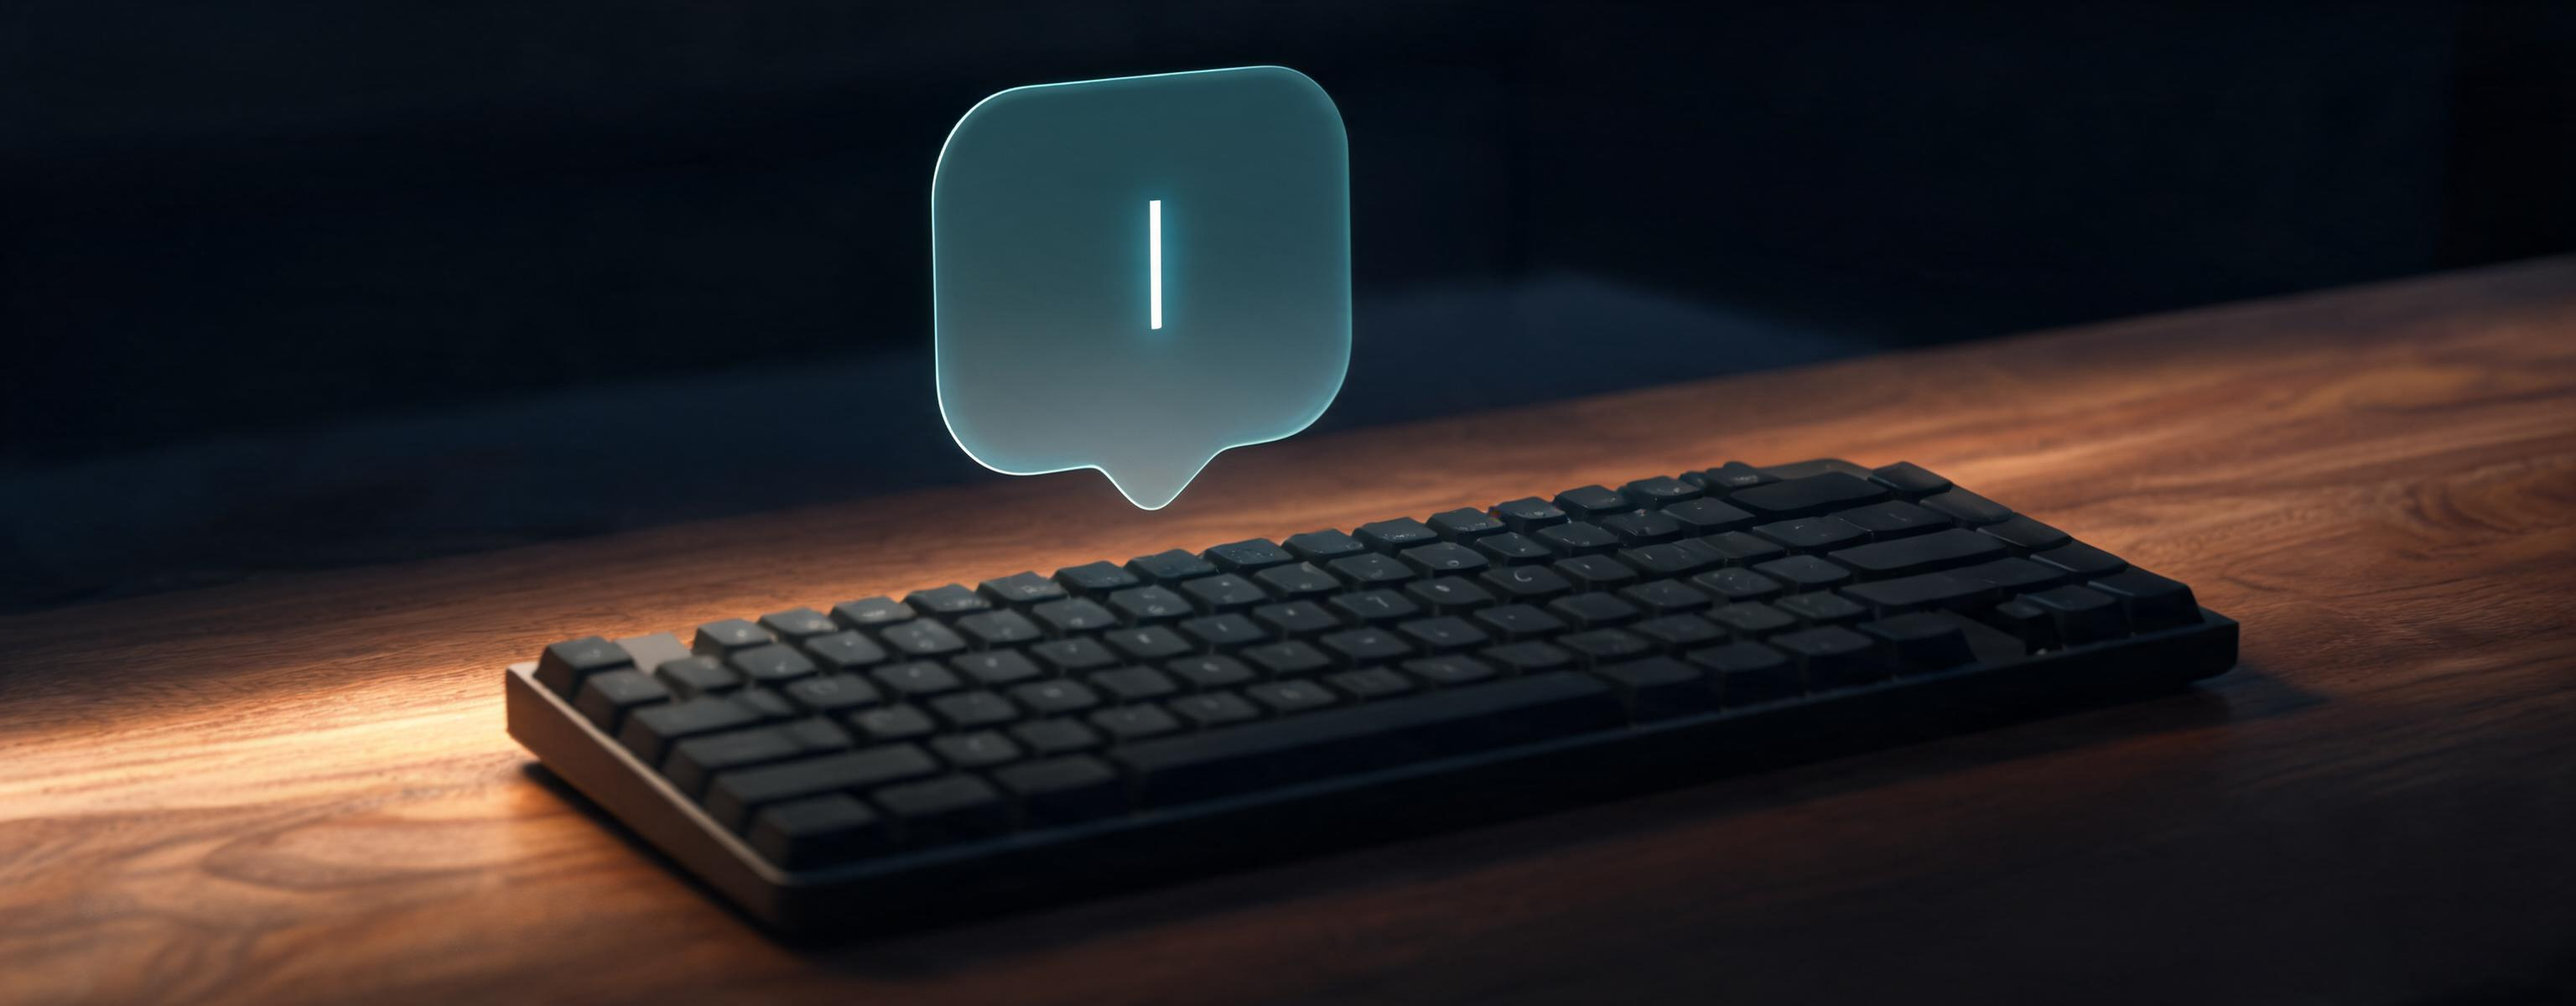
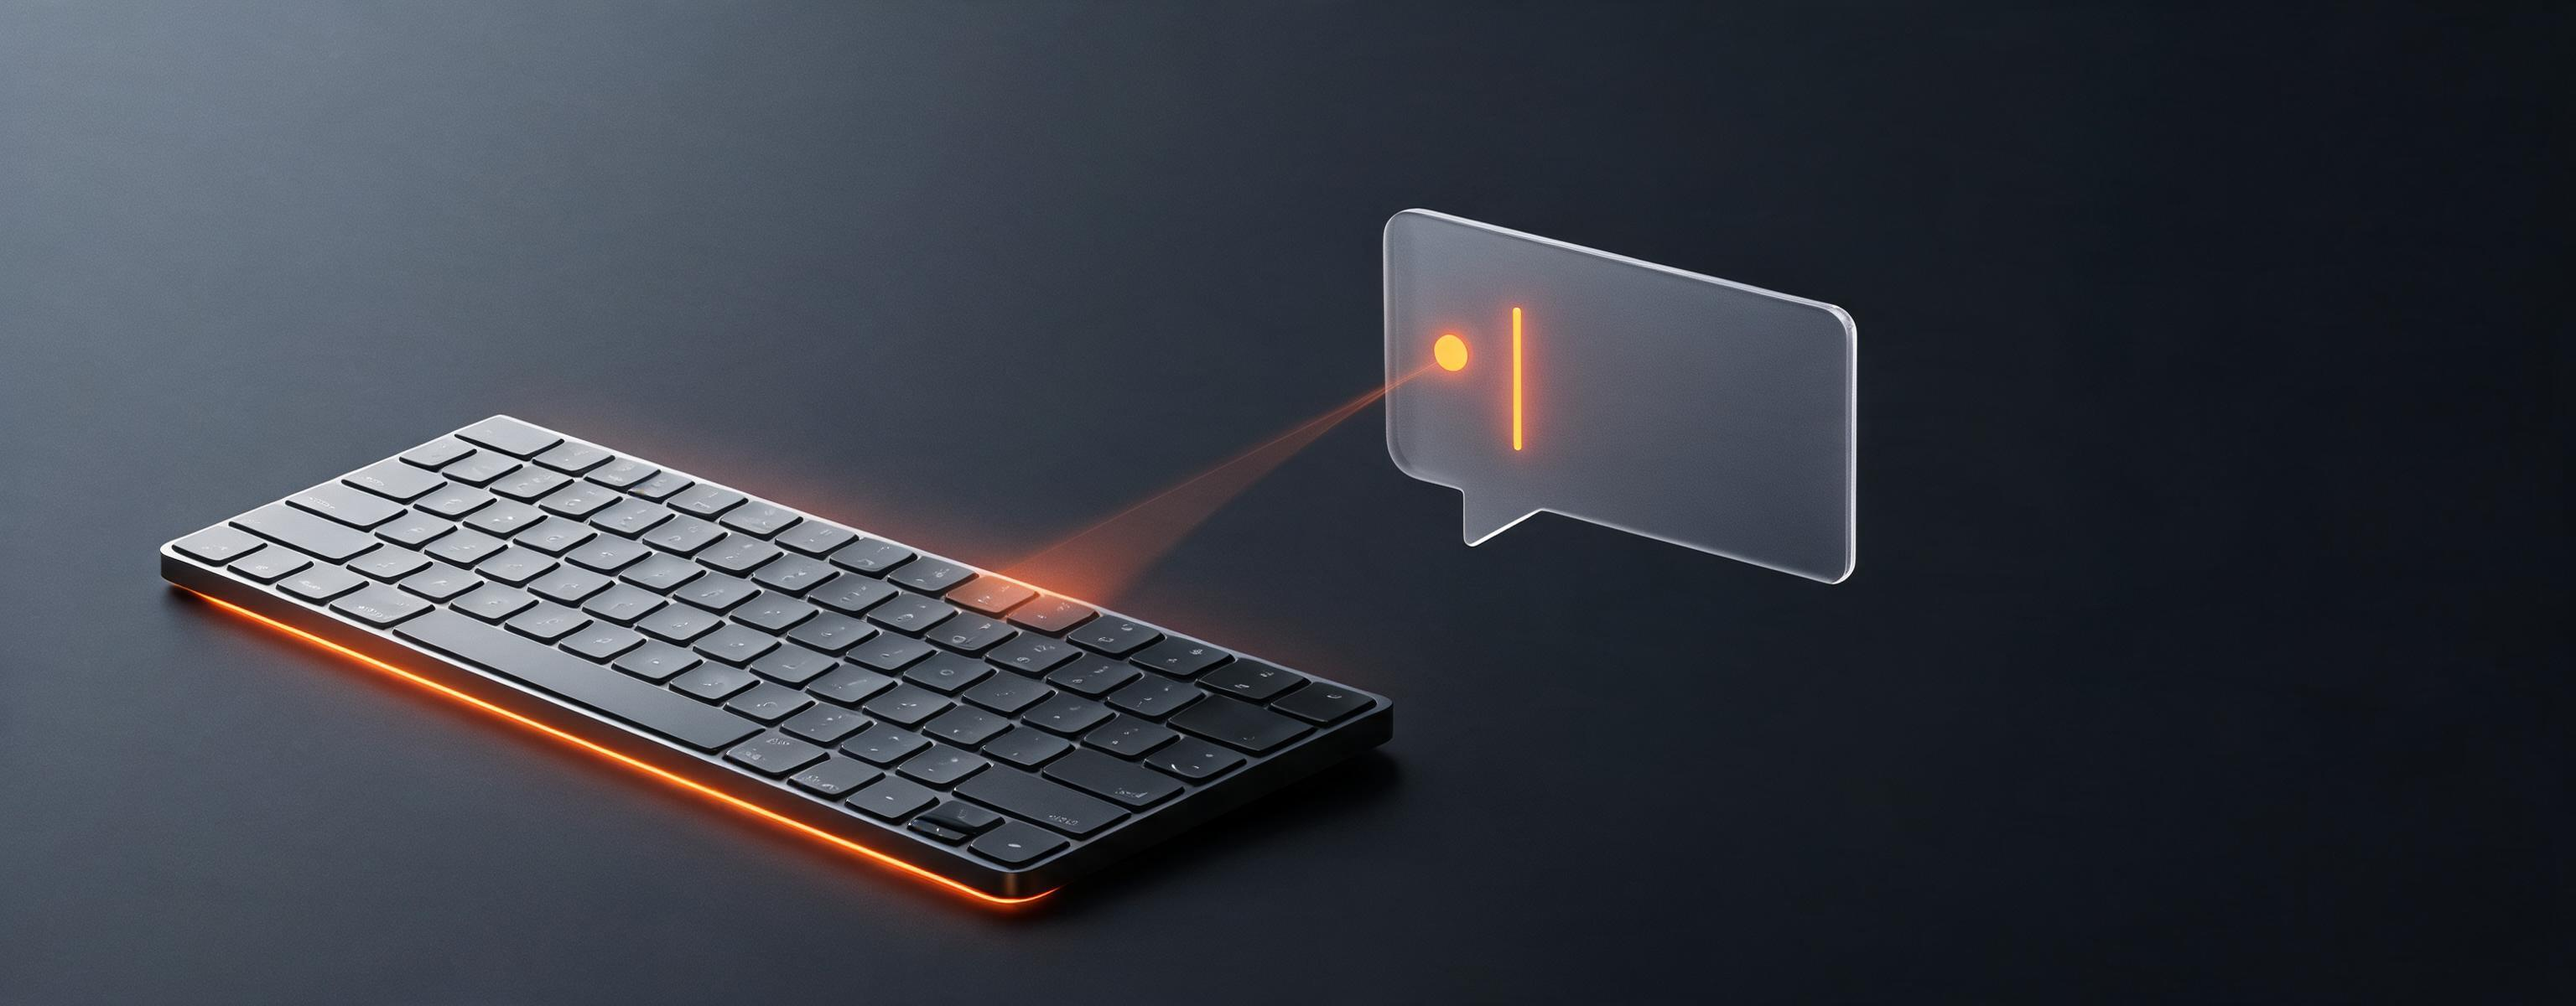
post: new hero image, constrained AI panel figure, human title

diff --git a/src/content/posts/keychron-ai-launcher-assistant.md b/src/content/posts/keychron-ai-launcher-assistant.md
@@ -1,14 +1,12 @@
 ---
-title: "Keychron AI (Beta): the Launcher Now Takes Requests"
+title: "Keychron AI: Ask the Launcher, and It Does It"
 date: 2026-07-19
 description: "Keychron's Launcher web app has a built-in AI assistant now. Type what you want in your own language and it connects your keyboard, remaps keys, builds macros and walks you through fixes. Tested against two years of real community questions."
 tags: [Keychron, Launcher, AI, mechanical keyboard, QMK, tutorial]
 category: Keychron Blog Draft
 ---
 
-*Draft preview — prepared for the Keychron blog. Format and sourcing follow the final publishing layout.*
-
-![A keyboard on a desk at night, with a glowing chat bubble above it](/keychron-ai/keychron-ai-hero.png)
+![A keyboard on a desk with a glowing chat bubble rising from the keys](/keychron-ai/keychron-ai-hero.png)
 
 For two years, the same questions kept showing up in keyboard communities. Why won't my keyboard connect to the Launcher? Why does my remapped key type the wrong symbol? What is a layer, and why did my firmware update just stop halfway?
 
@@ -20,7 +18,10 @@ Every quote below links to the original thread. You can check that we didn't inv
 
 ## What the assistant does
 
-![The Keychron AI panel in the Launcher, with suggested requests](/keychron-ai/keychron-ai-panel.jpg)
+<figure style="max-width:340px;margin:1.6em auto;text-align:center">
+  <img src="/keychron-ai/keychron-ai-panel.jpg" alt="The Keychron AI panel inside the Launcher, showing a greeting and three suggested requests" style="border-radius:14px;box-shadow:0 10px 34px rgba(0,0,0,.28)" />
+  <figcaption style="font-size:.85rem;color:var(--text-muted);margin-top:.6em">The AI panel opens on the right side of the Launcher. It greets you, then offers a few things to try.</figcaption>
+</figure>
 
 Click the **AI** button in the top-right corner of the Launcher and type a request. It can:
 
